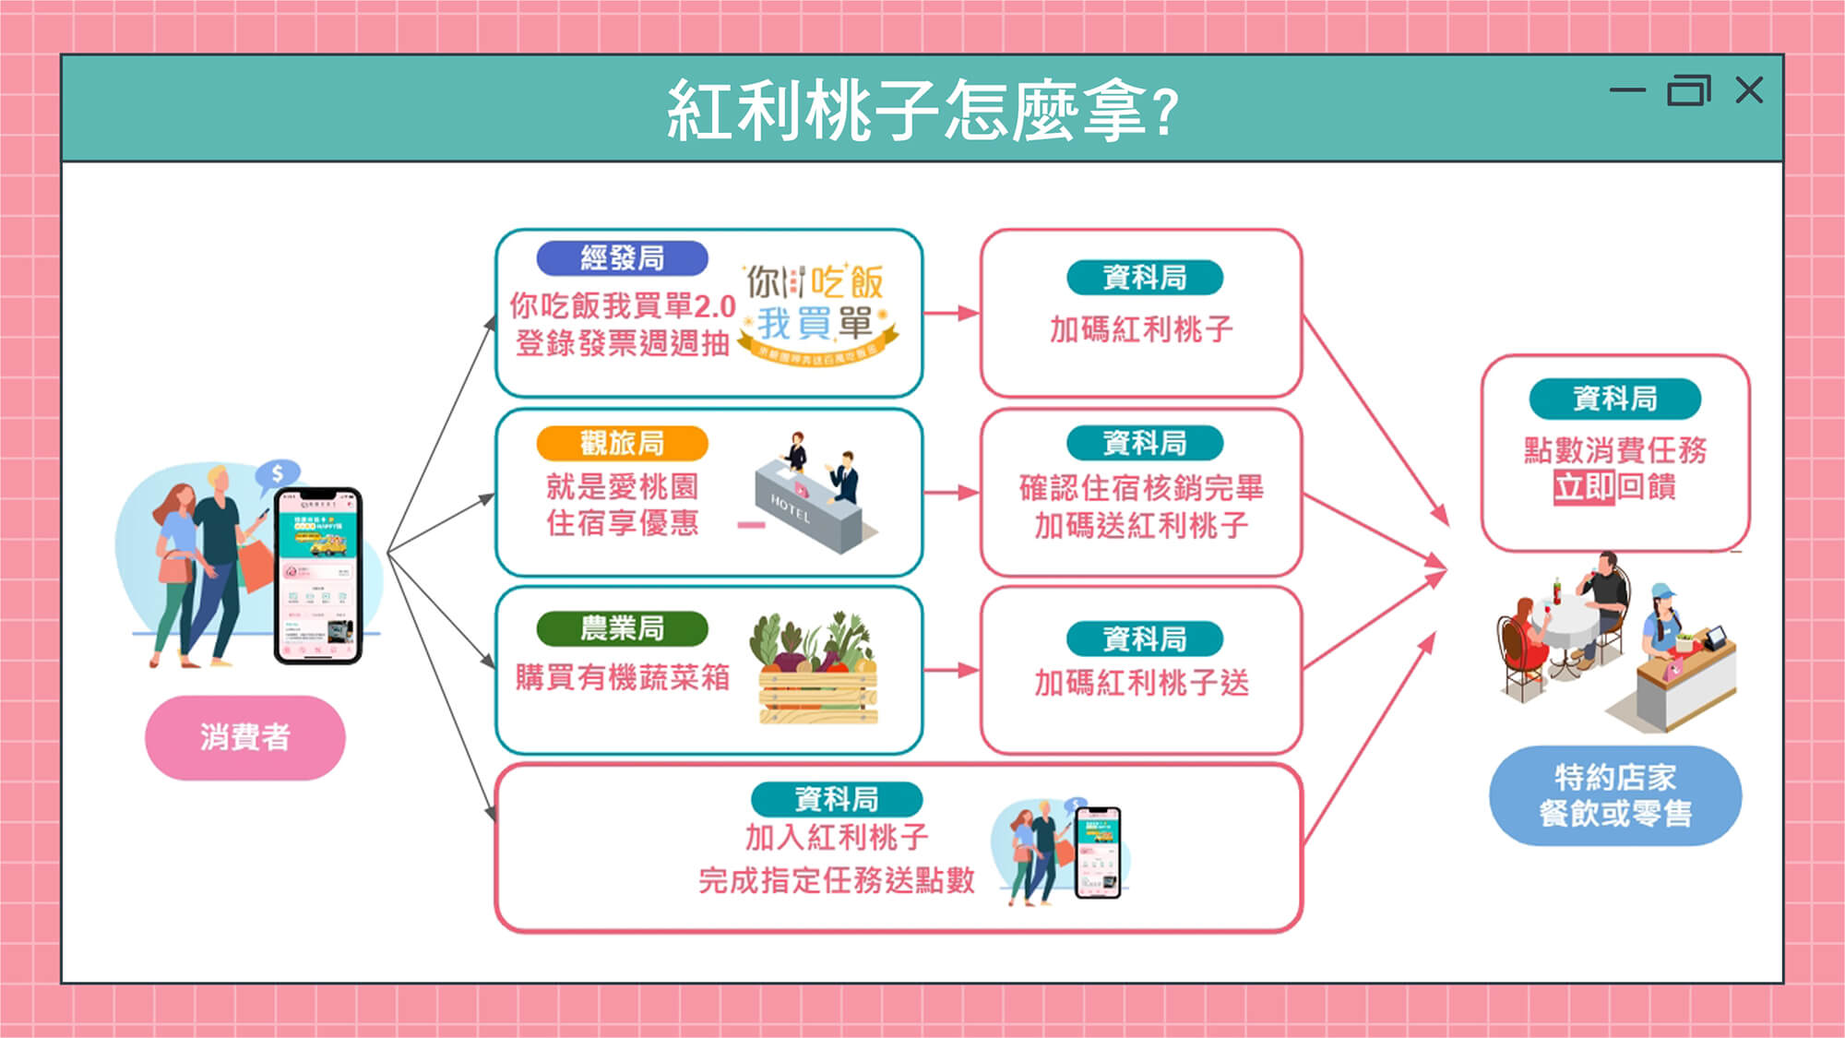
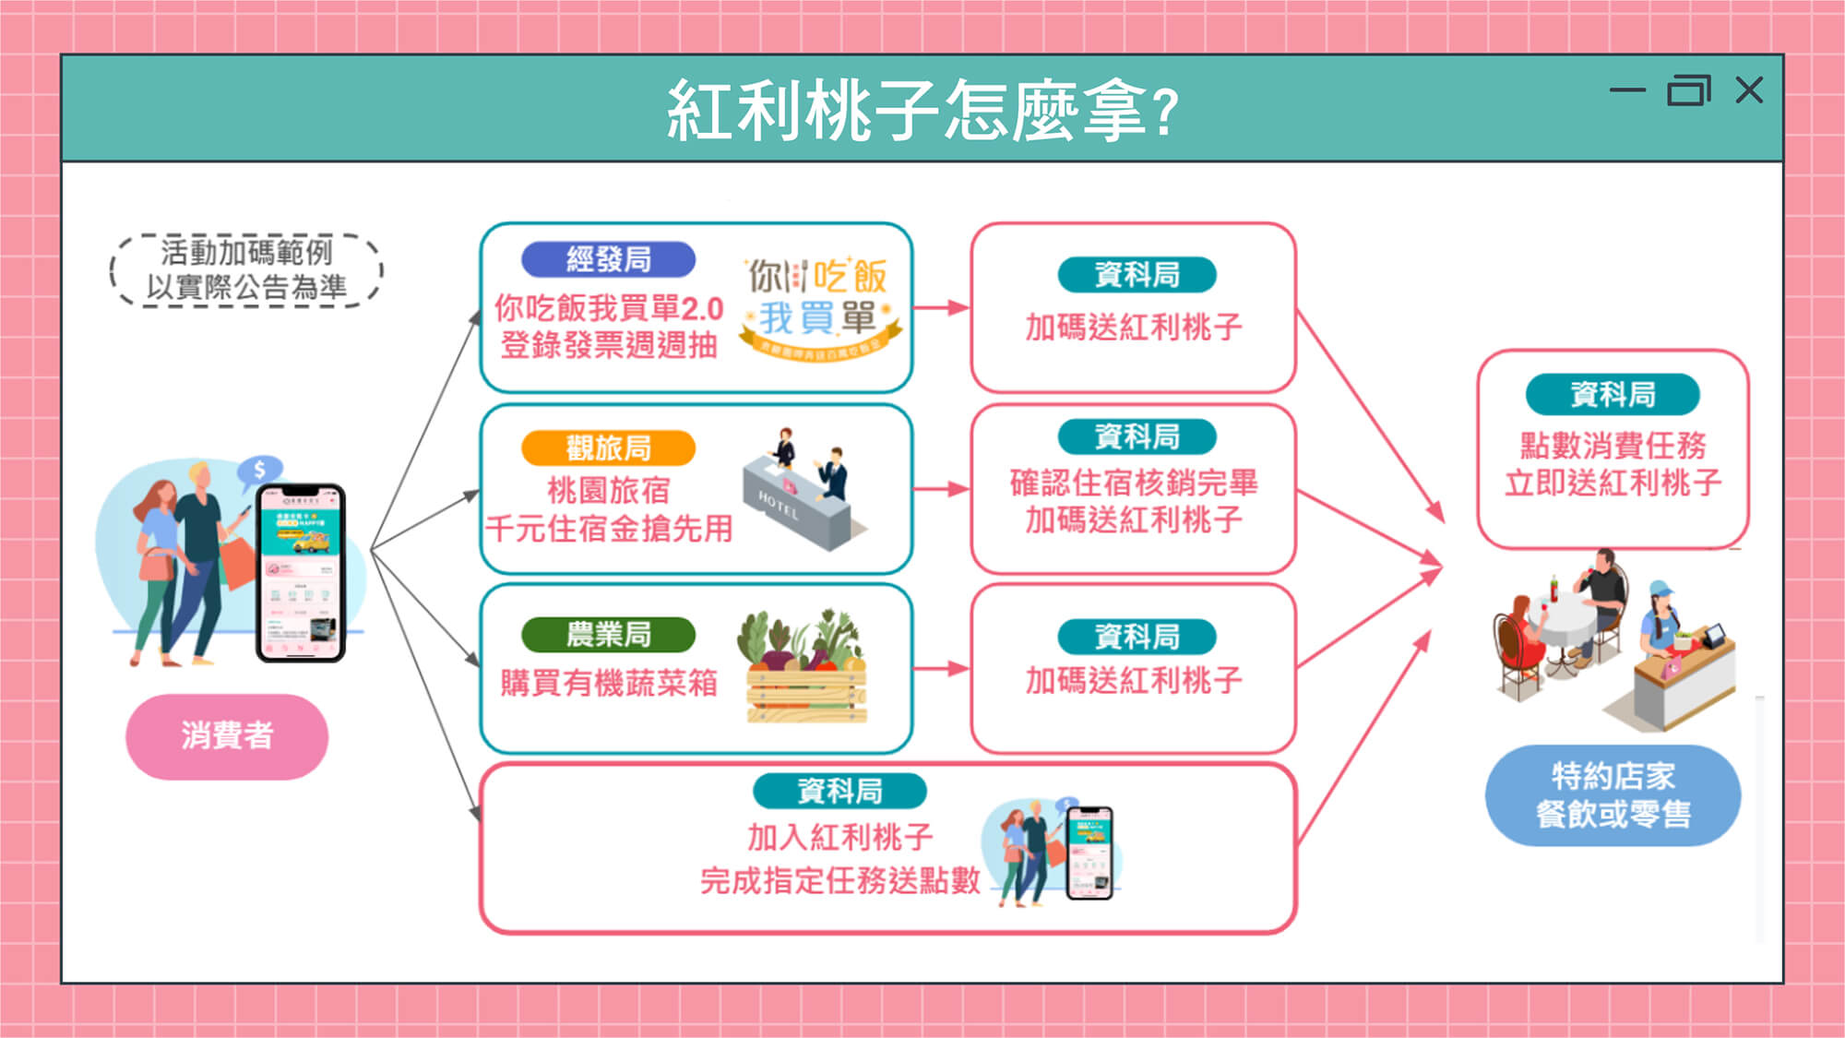
紅利桃子 - 更新連結與內容

Changed region(s): [[0.031, 0.1867, 0.961, 0.9022], [0.062, 0.2178, 0.186, 0.3111]]

diff --git a/iiot/peach/point.html b/iiot/peach/point.html
@@ -4,12 +4,12 @@
     <meta charset="UTF-8">
     <meta name="viewport" content="width=device-width, initial-scale=1.0, minimum-scale=1.0, maximum-scale=1.0, user-scalable=no">
     <title>紅利桃子 | 民眾專區 － 商家振興、民眾有感！千萬紅利桃子加倍贈，振興活動一波波持續到年底</title>
-    <meta name='description'content="資科局全新打造、預計於年底上線的「市民卡紅利桃子」，運用點數發放模式，達到市政宣導、民眾有感、商家振興的目標，為加強振興力道將於7月15日搶先以Beta版本推出，結合各局處活動送出千萬元台幣的巨額點數，民眾獲點後可以直接至桃園在地特約商家折抵消費（1元=1點），取得生活小確幸；商家則能將獲得的點數變現，取得最實質的收益。" />
+    <meta name='description'content="桃園市政府資科局全新打造、預計於年底上線的「市民卡紅利桃子」，運用點數發放模式，達到市政宣導、民眾有感、商家振興的目標。為加強振興力道將於7月15日提早搶先推出，結合各局處活動送出千萬元台幣等值的巨額點數，民眾獲點後可以直接到桃園在地特約商家折抵消費（1元=1點），增加生活小確幸；而商家可將獲得的點數變現，提升實質收益。" />
     <meta name='keywords' content="數位桃園, 數位振興, 商家振興, 市民卡, 紅利桃子, 桃園市民, TTPUSH, 點數特約商店" />
     <meta property="og:image" content="images/share-pic.png" />
-    <meta property="og:title" content="紅利桃子 | 民眾專區 － 商家振興、民眾有感！千萬紅利桃子加倍贈，振興活動一波波持續到年底" />
+    <meta property="og:title" content="紅利桃子－商家振興、民眾有感！千萬紅利桃子加倍贈，振興活動一波波持續到年底" />
     <meta property="og:url" content="#" />
-    <meta property="og:description" content="資科局全新打造、預計於年底上線的「市民卡紅利桃子」，運用點數發放模式，達到市政宣導、民眾有感、商家振興的目標，為加強振興力道將於7月15日搶先以Beta版本推出，結合各局處活動送出千萬元台幣的巨額點數，民眾獲點後可以直接至桃園在地特約商家折抵消費（1元=1點），取得生活小確幸；商家則能將獲得的點數變現，取得最實質的收益。" />
+    <meta property="og:description" content="桃園市政府資科局全新打造、預計於年底上線的「市民卡紅利桃子」，運用點數發放模式，達到市政宣導、民眾有感、商家振興的目標。為加強振興力道將於7月15日提早搶先推出，結合各局處活動送出千萬元台幣等值的巨額點數，民眾獲點後可以直接到桃園在地特約商家折抵消費（1元=1點），增加生活小確幸；而商家可將獲得的點數變現，提升實質收益。" />
     <meta property="og:type" content="website" />
     <link rel="apple-touch-icon" sizes="57x57" href="https://taoyuan1000.tycg.gov.tw/images/icons/apple-icon-57x57.png">
     <link rel="apple-touch-icon" sizes="60x60" href="https://taoyuan1000.tycg.gov.tw/images/icons/apple-icon-60x60.png">
@@ -95,7 +95,7 @@
                 <section class="event-content" id="goThe01">
                     <div class="info" style="padding-bottom: 40px;">
                         <div class="slider-banner">
-                            <a href="https://portal.typoint.tw/"
+                            <a href="https://lihi3.com/BYXkv"
                                 target="_blank">
                                 <img width="100%" src="images/btn-join.png" alt="加入紅利桃子 （掃描QRcode或點我加入）">
                             </a>
@@ -114,10 +114,30 @@
                     </div>
                     <div class="card" id="link02">
                         <h3 class="sub-title">
-                            <span class="bg-pink">紅利桃子怎麼拿?</span>
+                            <span class="bg-pink">全民攻略 - 紅利桃子怎麼拿?</span>
                         </h3>
                         <div>
                             <img src="images/img-join-03.jpg" width="100%">
+                        </div>
+                        <div class="info">
+                            <h5>民眾可透過以下各種多元管道取得紅利桃子：</h5>
+                            <ul class="list">
+                                <li>
+                                    <p><span>問答給獎勵：</span>加入紅利桃子完成問答任務即享 50 點。</p>
+                                </li>
+                                <li>
+                                    <p><span>消費回饋任務：</span>到點數特約商店使用 50 點以上，系統立即回饋點數 50 點。每人可到不重複的 2 個點數特約商店消費，最高可回饋2次，累計 100 點。</p>
+                                </li>
+                                <li>
+                                    <p><span class="blue">加碼經發局活動：</span>參加桃園市經發局「你吃飯我買單2.0」，依照得獎者金額數字，資科局提供加倍紅利桃子。（經發局活動辦法詳見該活動官網）</p>
+                                </li>
+                                <li>
+                                    <p><span class="blue">加碼觀旅局活動：</span>參加桃園市觀旅局「桃園千元住宿金搶先用」，依照得獎者金額數字，資科局提供 1,000 點紅利桃子。（觀旅局活動辦法詳見該活動官網）</p>
+                                </li>
+                                <li>
+                                    <p><span class="blue">加碼農業局活動：</span>參加桃園市農業局「111年桃園市防疫有機蔬菜箱」，依照實際付款採購者之意願登記報名，資科局提供 30 點紅利桃子。（農業局活動辦法詳見該活動官網）</p>
+                                </li>
+                            </ul>
                         </div>
                     </div>
                     <div class="card" id="link03">
@@ -140,13 +160,13 @@
                                 <h5>相關連結</h5>
                                 <ul class="clearfix">
                                     <li>
-                                        <a href="https://doit.tycg.gov.tw/" target="_blank">
-                                            <img src="images/Logo-Taoyuan-doit.png" alt="桃園市政府資訊科技局">
+                                        <a href="https://www.tycg.gov.tw/ch/" target="_blank">
+                                            <img src="images/Logo-Taoyuan-Black.png" alt="桃園市政府">
                                         </a>
                                     </li>
                                     <li>
-                                        <a href="https://www.tycg.gov.tw/ch/" target="_blank">
-                                            <img src="images/Logo-Taoyuan-Black.png" alt="桃園市政府">
+                                        <a href="https://doit.tycg.gov.tw/" target="_blank">
+                                            <img src="images/Logo-Taoyuan-doit.png" alt="桃園市政府資訊科技局">
                                         </a>
                                     </li>
                                 </ul>

diff --git a/iiot/peach/index.html b/iiot/peach/index.html
@@ -4,12 +4,12 @@
     <meta charset="UTF-8">
     <meta name="viewport" content="width=device-width, initial-scale=1.0, minimum-scale=1.0, maximum-scale=1.0, user-scalable=no">
     <title>紅利桃子－商家振興、民眾有感！千萬紅利桃子加倍贈，振興活動一波波持續到年底</title>
-    <meta name='description'content="資科局全新打造、預計於年底上線的「市民卡紅利桃子」，運用點數發放模式，達到市政宣導、民眾有感、商家振興的目標，為加強振興力道將於7月15日搶先以Beta版本推出，結合各局處活動送出千萬元台幣的巨額點數，民眾獲點後可以直接至桃園在地特約商家折抵消費（1元=1點），取得生活小確幸；商家則能將獲得的點數變現，取得最實質的收益。" />
+    <meta name='description'content="桃園市政府資科局全新打造、預計於年底上線的「市民卡紅利桃子」，運用點數發放模式，達到市政宣導、民眾有感、商家振興的目標。為加強振興力道將於7月15日提早搶先推出，結合各局處活動送出千萬元台幣等值的巨額點數，民眾獲點後可以直接到桃園在地特約商家折抵消費（1元=1點），增加生活小確幸；而商家可將獲得的點數變現，提升實質收益。" />
     <meta name='keywords' content="數位桃園, 數位振興, 商家振興, 市民卡, 紅利桃子, 桃園市民, TTPUSH, 點數特約商店" />
     <meta property="og:image" content="images/share-pic.png" />
     <meta property="og:title" content="紅利桃子－商家振興、民眾有感！千萬紅利桃子加倍贈，振興活動一波波持續到年底" />
     <meta property="og:url" content="#" />
-    <meta property="og:description" content="資科局全新打造、預計於年底上線的「市民卡紅利桃子」，運用點數發放模式，達到市政宣導、民眾有感、商家振興的目標，為加強振興力道將於7月15日搶先以Beta版本推出，結合各局處活動送出千萬元台幣的巨額點數，民眾獲點後可以直接至桃園在地特約商家折抵消費（1元=1點），取得生活小確幸；商家則能將獲得的點數變現，取得最實質的收益。" />
+    <meta property="og:description" content="桃園市政府資科局全新打造、預計於年底上線的「市民卡紅利桃子」，運用點數發放模式，達到市政宣導、民眾有感、商家振興的目標。為加強振興力道將於7月15日提早搶先推出，結合各局處活動送出千萬元台幣等值的巨額點數，民眾獲點後可以直接到桃園在地特約商家折抵消費（1元=1點），增加生活小確幸；而商家可將獲得的點數變現，提升實質收益。" />
     <meta property="og:type" content="website" />
     <link rel="apple-touch-icon" sizes="57x57" href="https://taoyuan1000.tycg.gov.tw/images/icons/apple-icon-57x57.png">
     <link rel="apple-touch-icon" sizes="60x60" href="https://taoyuan1000.tycg.gov.tw/images/icons/apple-icon-60x60.png">
@@ -128,13 +128,13 @@
                             <h4 class="hot-title pa-01">商家振興、民眾有感！千萬紅利桃子加倍贈，振興活動一波波持續到年底</h4>
                             <div class="info">
                                 <h5>活動簡介</h5>
-                                <p>資科局全新打造、預計於年底上線的「市民卡紅利桃子」，運用點數發放模式，達到市政宣導、民眾有感、商家振興的目標，為加強振興力道將於7月15日搶先以Beta版本推出，結合各局處活動送出千萬元台幣的巨額點數，民眾獲點後可以直接至桃園在地特約商家折抵消費（1元=1點），取得生活小確幸；商家則能將獲得的點數變現，取得最實質的收益。</p>
+                                <p>桃園市政府資科局全新打造、預計於年底上線的「市民卡紅利桃子」，運用點數發放模式，達到市政宣導、民眾有感、商家振興的目標。為加強振興力道將於7月15日提早搶先推出，結合各局處活動送出千萬元台幣等值的巨額點數，民眾獲點後可以直接到桃園在地特約商家折抵消費（1元=1點），增加生活小確幸；而商家可將獲得的點數變現，提升實質收益。</p>
                             </div>
                             <div class="info">
                                 <h5>最新消息</h5>
-                                <p>「點數特約商家」招募中，加入辦法請洽業者專區<br><a>「點數特約商家」各場次線上招商說明會報名（6/29召開首場）</a></p>
+                                <p>「點數特約商家」招募中，加入辦法請洽業者專區<br><a href="https://forms.gle/cjEuN9TL8Wtf9iga6" target="_blank">各場次線上招商說明會報名</a></p>
                                 <div class="slider-banner">
-                                    <a href="https://docs.google.com/forms/d/e/1FAIpQLScqd69r4Yk4Qv5sQEsRZEGzPku2HbDZ4FsDbFFvHxF0-zLODA/viewform" target="_blank">
+                                    <a href="https://lihi3.com/psG7v" target="_blank">
                                         <img width="100%" src="images/btn-form.png" alt="「點數特約商家」招募中 （立即點我申請加入）">
                                     </a>
                                 </div>
@@ -189,13 +189,13 @@
                                 <h5>相關連結</h5>
                                 <ul class="clearfix">
                                     <li>
-                                        <a href="https://doit.tycg.gov.tw/" target="_blank">
-                                            <img src="images/Logo-Taoyuan-doit.png" alt="桃園市政府資訊科技局">
+                                        <a href="https://www.tycg.gov.tw/ch/" target="_blank">
+                                            <img src="images/Logo-Taoyuan-Black.png" alt="桃園市政府">
                                         </a>
                                     </li>
                                     <li>
-                                        <a href="https://www.tycg.gov.tw/ch/" target="_blank">
-                                            <img src="images/Logo-Taoyuan-Black.png" alt="桃園市政府">
+                                        <a href="https://doit.tycg.gov.tw/" target="_blank">
+                                            <img src="images/Logo-Taoyuan-doit.png" alt="桃園市政府資訊科技局">
                                         </a>
                                     </li>
                                 </ul>

diff --git a/iiot/peach/business.html b/iiot/peach/business.html
@@ -4,12 +4,12 @@
     <meta charset="UTF-8">
     <meta name="viewport" content="width=device-width, initial-scale=1.0, minimum-scale=1.0, maximum-scale=1.0, user-scalable=no">
     <title>紅利桃子 | 業者專區 － 商家振興、民眾有感！千萬紅利桃子加倍贈，振興活動一波波持續到年底</title>
-    <meta name='description'content="資科局全新打造、預計於年底上線的「市民卡紅利桃子」，運用點數發放模式，達到市政宣導、民眾有感、商家振興的目標，為加強振興力道將於7月15日搶先以Beta版本推出，結合各局處活動送出千萬元台幣的巨額點數，民眾獲點後可以直接至桃園在地特約商家折抵消費（1元=1點），取得生活小確幸；商家則能將獲得的點數變現，取得最實質的收益。" />
+    <meta name='description'content="桃園市政府資科局全新打造、預計於年底上線的「市民卡紅利桃子」，運用點數發放模式，達到市政宣導、民眾有感、商家振興的目標。為加強振興力道將於7月15日提早搶先推出，結合各局處活動送出千萬元台幣等值的巨額點數，民眾獲點後可以直接到桃園在地特約商家折抵消費（1元=1點），增加生活小確幸；而商家可將獲得的點數變現，提升實質收益。" />
     <meta name='keywords' content="數位桃園, 數位振興, 商家振興, 市民卡, 紅利桃子, 桃園市民, TTPUSH, 點數特約商店" />
     <meta property="og:image" content="images/share-pic.png" />
-    <meta property="og:title" content="紅利桃子 | 業者專區 － 商家振興、民眾有感！千萬紅利桃子加倍贈，振興活動一波波持續到年底" />
+    <meta property="og:title" content="紅利桃子－商家振興、民眾有感！千萬紅利桃子加倍贈，振興活動一波波持續到年底" />
     <meta property="og:url" content="#" />
-    <meta property="og:description" content="資科局全新打造、預計於年底上線的「市民卡紅利桃子」，運用點數發放模式，達到市政宣導、民眾有感、商家振興的目標，為加強振興力道將於7月15日搶先以Beta版本推出，結合各局處活動送出千萬元台幣的巨額點數，民眾獲點後可以直接至桃園在地特約商家折抵消費（1元=1點），取得生活小確幸；商家則能將獲得的點數變現，取得最實質的收益。" />
+    <meta property="og:description" content="桃園市政府資科局全新打造、預計於年底上線的「市民卡紅利桃子」，運用點數發放模式，達到市政宣導、民眾有感、商家振興的目標。為加強振興力道將於7月15日提早搶先推出，結合各局處活動送出千萬元台幣等值的巨額點數，民眾獲點後可以直接到桃園在地特約商家折抵消費（1元=1點），增加生活小確幸；而商家可將獲得的點數變現，提升實質收益。" />
     <meta property="og:type" content="website" />
     <link rel="apple-touch-icon" sizes="57x57" href="https://taoyuan1000.tycg.gov.tw/images/icons/apple-icon-57x57.png">
     <link rel="apple-touch-icon" sizes="60x60" href="https://taoyuan1000.tycg.gov.tw/images/icons/apple-icon-60x60.png">
@@ -80,7 +80,7 @@
                 <section class="event-content" id="goThe01">
                     <div class="info" style="padding-bottom: 40px;">
                         <div class="slider-banner">
-                            <a href="https://docs.google.com/forms/d/e/1FAIpQLScqd69r4Yk4Qv5sQEsRZEGzPku2HbDZ4FsDbFFvHxF0-zLODA/viewform"
+                            <a href="https://lihi3.com/psG7v"
                                 target="_blank">
                                 <img width="100%" src="images/btn-join-business.png" alt="「點數特約商家」招募中 （立即點我申請加入）">
                             </a>
@@ -124,13 +124,13 @@
                                 <h5>相關連結</h5>
                                 <ul class="clearfix">
                                     <li>
-                                        <a href="https://doit.tycg.gov.tw/" target="_blank">
-                                            <img src="images/Logo-Taoyuan-doit.png" alt="桃園市政府資訊科技局">
+                                        <a href="https://www.tycg.gov.tw/ch/" target="_blank">
+                                            <img src="images/Logo-Taoyuan-Black.png" alt="桃園市政府">
                                         </a>
                                     </li>
                                     <li>
-                                        <a href="https://www.tycg.gov.tw/ch/" target="_blank">
-                                            <img src="images/Logo-Taoyuan-Black.png" alt="桃園市政府">
+                                        <a href="https://doit.tycg.gov.tw/" target="_blank">
+                                            <img src="images/Logo-Taoyuan-doit.png" alt="桃園市政府資訊科技局">
                                         </a>
                                     </li>
                                 </ul>

diff --git a/iiot/peach/css/style.scss b/iiot/peach/css/style.scss
@@ -87,9 +87,11 @@ $f-size-ss: 0.688rem; //11px
     color: transparent;
     text-shadow: 0 0 0 #fff;
     cursor: pointer;
-  }
-  @media all and (max-width: 450px) {
-    font-size: $f-size-s;
+    -moz-transform:rotate(45deg);
+    -webkit-transform:rotate(45deg);
+    -o-transform:rotate(45deg);
+    -ms-transform:rotate(45deg);
+    transform:rotate(45deg);
   }
 }
 a.gotop {
@@ -620,10 +622,13 @@ a.gotop {
             text-align: justify;
             padding-bottom: 0;
             span {
-              color: #00c5be;
+              color: #ef6079;
+            }
+            span.blue {
+              color: #6fa8dd;
             }
             a {
-              color: #e5677d;
+              color: #ef6079;
               text-decoration: underline;
               &:hover {
                 text-decoration: none;
@@ -764,7 +769,7 @@ a.gotop {
         }
         p {
           padding-bottom: 20px;
-          font-size: 14px;
+          // font-size: 14px;
           text-align: center;
         }
       }

diff --git a/iiot/peach/css/style.css b/iiot/peach/css/style.css
@@ -314,12 +314,8 @@ body {
   color: transparent;
   text-shadow: 0 0 0 #fff;
   cursor: pointer;
-}
-
-@media all and (max-width: 450px) {
-  .cookie-accept {
-    font-size: 0.813rem;
-  }
+  -webkit-transform: rotate(45deg);
+  transform: rotate(45deg);
 }
 
 a.gotop {
@@ -968,11 +964,15 @@ a.gotop {
 }
 
 .middle-container .event-content .info ul.list li p span {
-  color: #00c5be;
+  color: #ef6079;
+}
+
+.middle-container .event-content .info ul.list li p span.blue {
+  color: #6fa8dd;
 }
 
 .middle-container .event-content .info ul.list li p a {
-  color: #e5677d;
+  color: #ef6079;
   text-decoration: underline;
 }
 
@@ -1130,7 +1130,6 @@ a.gotop {
   }
   .middle-container .event-content .info p {
     padding-bottom: 20px;
-    font-size: 14px;
     text-align: center;
   }
   .middle-container .event-content .event-list {
